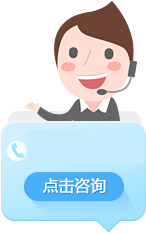
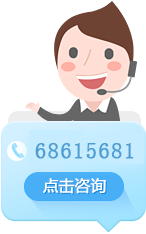
comit

Changed region(s): [[0.5205, 0.5983, 0.9041, 0.688], [0.2192, 0.5983, 0.4932, 0.688]]

diff --git a/index.html b/index.html
@@ -14,6 +14,7 @@
 <link href="css/style.css" rel="stylesheet" type="text/css"/>
 <link href="css/responsive.css" rel="stylesheet" type="text/css"/>
 <link href="css/hover.css" rel="stylesheet" type="text/css"/>
+<link href="css/bootstrap.css" rel="stylesheet" type="text/css" media="all" />
 <!-- <link href="css/animate.css" rel="stylesheet" type="text/css" media="all" /> -->
 <link href='http://fonts.googleapis.com/css?family=Ubuntu' rel='stylesheet' type='text/css'>
 <link href="css/font-awesome.min.css" rel="stylesheet">
@@ -66,8 +67,37 @@
           </div>  
         </div>
     </header>
+    <div class="mask1" @click="mask" :style="is_show?'display:block':'display:none'">
+        <div class="dialog">
+            <div class="dialog_cont">
+               <div class="contactPhone">
+                   <a class="font24 color6">联系电话：</a><a class="font18 color6">18192654258</a>
+               </div>
+               <div class="wx_contanct">
+                   <img src="images/qrcode.jpg"/>
+                   <div class="contactPhone">
+                       <a class="font24 color6">微信号：</a><a class="font18 color6">weirui_yd</a>
+                   </div>
+               </div>
+               
+           </div>
+        </div>
+    </div>
     <div class="banner2">
-        <img src="images/banner2.png" class="img-responsive banner_img">
+        <div id="carousel-example-generic" class="carousel slide" data-ride="carousel">
+            <ol class="carousel-indicators">
+                <li data-target="#carousel-example-generic" data-slide-to="0" class="active"></li>
+                <li data-target="#carousel-example-generic" data-slide-to="1"></li>
+            </ol>
+            <div class="carousel-inner" role="listbox">
+                <div  class="item active">
+                  <img src="images/banner2.png" class="img-responsive banner_img">
+                </div>
+                <div  class="item">
+                  <img src="images/banner2.png" class="img-responsive banner_img">
+                </div>
+            </div>  
+        </div>
         <div class="banner_top">
             <div class="main1200">
                 <div class="banner_wx">
@@ -76,11 +106,12 @@
                         <p class="fadeInLeft dalay-2s  animated">商城、营销、会员等一站式服务</p>
                         <p class="fadeInLeft dalay-3s  animated">轻松打造独立专属的在线商城</p>
                     </div>
-                    <a href="#">立即咨询</a>
+                    <a @click="consult">立即咨询</a>
                 </div>
             </div>
         </div>
     </div>
+
     <div class="xwSmall animatedOpacity">
         <div class="contain">
             <div class="wx_tlt">企业为什么要做小程序？</div>
@@ -311,15 +342,24 @@
     <div class="consult_cont">
         <div class="consult_top">
             <img src="images/consult.png">
-            <a href="tel:123456789"></a>
+            <a href="tel:68615681"></a>
         </div>
         <div class="consult_bottom">
-            <ul class="consult_method">
-                <li>
+            <ul class="consult_method" @mouseover="enter" @mouseout="leave">
+                <li @mouseover="enter" @mouseout="leave">
                     <a>
                         <img src="images/qq_bg.png" class="consult_img">
                         <span>在线客服</span>
                     </a>
+                    <div class="qq_icon" :style="is_show1?'display:block':'display:none'">
+                        <p class="qq_text">客服QQ:1250185620</p>
+                        <div class="wx_consult">
+                            <img src="images/qrcode.jpg"/>
+                        </div>
+                        <div class="font18 color6">
+                            微信号:bobotou
+                        </div>
+                    </div>
                 </li>
                 <li>
                     <a>
@@ -328,7 +368,7 @@
                     </a>
                 </li>
                 <li>
-                    <a class="">
+                    <a class="back_top" onclick="back_top()">
                         <img src="images/to_top.png">
                     </a>
                 </li>
@@ -388,15 +428,35 @@ var app = new Vue({
     data: function() {
         return {
             is_toggle:false,
+            is_show:false,
+            is_show1:false,
         }
     },
     created: function () {
       
     },
     methods:{
-         toggleMenu:function(e){
+        toggleMenu:function(e){
             var self = this;
             self.is_toggle = !self.is_toggle;
+        },
+        consult:function(e){
+            var self = this;
+            self.is_show = !self.is_show;
+        },
+        mask:function(e){
+            var self = this;
+            self.is_show = false;
+        },
+         enter: function(e) {
+            var self = this;
+            self.is_show1 = true;                             
+            console.log(self.is_show1);             
+        },
+        leave: function(e) {
+            var self = this;
+            self.is_show1 = false;                             
+            console.log(self.is_show1);             
         },
     }
 });
@@ -454,7 +514,11 @@ var app = new Vue({
 
     });
 });
-
 </script>
+<script>
+    function back_top(){
+     document.body.scrollTop = document.documentElement.scrollTop = 0;
+     }
+ </script>
 </body>
 </html>

diff --git a/css/style.css b/css/style.css
@@ -1482,6 +1482,7 @@ transition:all .6s ease-in-out;
     position: fixed;
     bottom: 0rem;
     right:0.38rem;
+    z-index:9999;
 }
 .consult_top{
     position: relative;
@@ -1521,6 +1522,7 @@ transition:all .6s ease-in-out;
     background:#089fe3;
     margin-bottom:0.03rem;
     text-align: center;
+    position: relative;
 }
 .consult_method li a{
     width:100%;
@@ -1538,7 +1540,34 @@ transition:all .6s ease-in-out;
 .consult_img{
     margin-top:0.02rem;
 }
+.back_top{
+    line-height:0.6rem;
+}
 .phone_nav{
     position: absolute;
     top:1rem;
+}
+/*.contactPhone{
+    height:0.4rem;
+}
+.contactPhone a{
+    height:0.4rem;
+    line-height: 0.4rem;
+}*/
+.qq_icon{
+    width:2rem;
+    height:1.85rem;
+    position: absolute;
+    right:0.6rem;
+    top:0;
+    background:#fff;
+    overflow: hidden;
+    display: none;
+}
+.wx_consult img{
+    width:1rem;
+    height:1rem;
+}
+.qq_text{
+    margin-top:0.16rem;
 }

diff --git a/css/basic.css b/css/basic.css
@@ -207,3 +207,40 @@ input,textarea {outline: none; -webkit-box-shadow: none; box-shadow: none;-webki
 	transform: rotate(360deg);
     -webkit-transform: rotate(360deg);
 }
+.mask1	{
+	width:100%;
+	height:100%;
+	position:absolute;
+	left:0;
+	top:0;
+	background:rgba(0,0,0,0.8);
+	overflow:hidden;
+	z-index:9999;
+}
+.dialog{
+	width:5rem;
+	height:4rem;
+	box-shadow: 0 0 0.2rem #666;
+	background:#fff;
+	position:fixed;
+	left:50%;
+	top:20%;
+	z-index:99999;
+	margin-left:-2.5rem;
+}
+.dialog_cont{
+	width:60%;
+	margin:0.6rem auto 0 auto;
+	text-align:center;
+}
+.wx_contanct img{
+	width:1.2rem;
+	height:1.2rem;
+	margin:0.4rem auto 0.2rem auto;
+}
+.font24{
+	font-size:0.24rem;
+}
+.font18{
+	font-size:0.18rem;
+}
